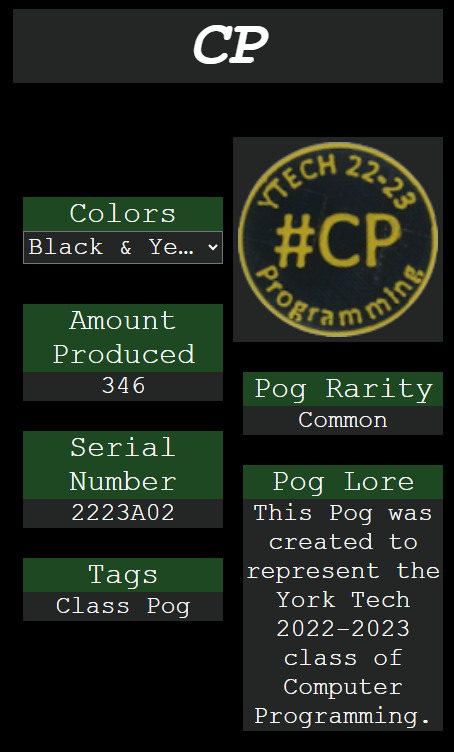
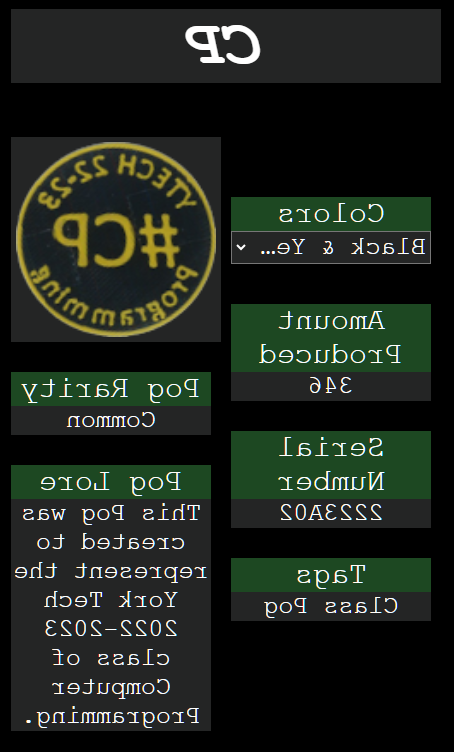
update
flipped image, added info, and added the image to a plane

diff --git a/main.js b/main.js
@@ -34,6 +34,20 @@ onlyP.rotation.y = 10;
 onlyP.position.y = -50;
 onlyP.position.x = 10
 
+const onlyPMG = new THREE.PlaneGeometry( 5, 20 )
+const onlyPMT = new THREE.TextureLoader().load('onlyPM.png')
+const onlyPMM = new THREE.MeshBasicMaterial(
+    {
+        side: THREE.DoubleSide,
+        map: onlyPMT
+    }
+)
+const onlyPMCSS = new THREE.Mesh(onlyPMG, onlyPMM)
+
+onlyPMCSS.rotation.y = 10;
+onlyPMCSS.position.y = -25;
+onlyPMCSS.position.x = 10
+
 if (window.innerWidth <= 460) {
     camera.position.x = 0
    for(const child in scene.children) {
@@ -47,7 +61,7 @@ if (window.innerWidth <= 460) {
         scene.children[child].position.y = child * -10;
     }
 }
-scene.add( plane, onlyP )
+scene.add( plane, onlyP, onlyPMCSS )
 
 
 function moveCamera() {

diff --git a/index.html b/index.html
@@ -38,7 +38,7 @@
     During my time at York Tech I worked with an in class company called OnlyPogs working with CSS, HTML, and JavaScript. 
     This company was based off the 90's toy pogs that came off of milk cartons, we 3d printed pogs in this class. 
     The website holds all information of the pogs in class.
-    An example of the CSS I worked on is displayed on the left.
+    An example of the CSS I worked on is displayed on the left with the Mobile version abopve it.
   </p></div><br>
   <div class="tHolder" id="last"><p>
     <a href="https://github.com/Shane24335/game">Tic-Tac-Toe</a> <br>
